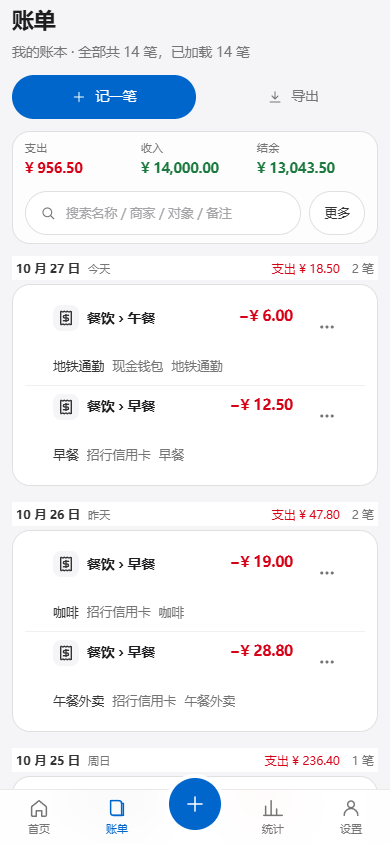
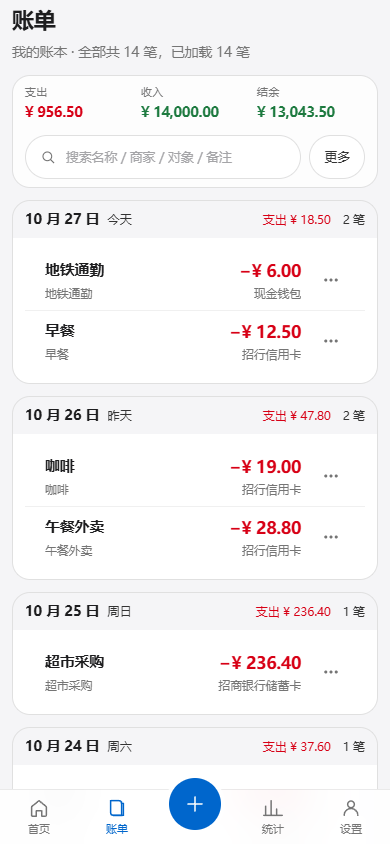
style(mobile): 账单页卡片重设计（日期通栏长条 + 两行信息层级 + 紧凑间距）
- 日期头改通栏长条：parchment 面 + 上/左/右 hairline，与白色条目卡形成面色切换；保留吸顶
- 单条两行：名称(回退二级分类)+金额 / 商家·标签+账户（账户在金额正下方）
  用 display:contents 拆格位，一套 DOM 三档断点；:has() 判名称回退
- 间距收紧：组距 24→12，行内边距 12→8，两行间距 2px
- 移除顶部「记一笔 / 导出」入口，页头不留空白占位
- 版本同步 1.1.7；SW v28

diff --git a/public/assets/mobile.css b/public/assets/mobile.css
@@ -341,37 +341,58 @@
 
   /* ---------- 账单列表：单列两行卡片，进一步收紧行高与组距（紧凑化） ----------
      桌面那套 `.tx-row` 在 ≤833 已是两行卡片（app.css），这里只收内边距与组距，
-     不改动列布局与语义色（红绿）。日期头 margin-bottom 收到 4（spacing.xs 下限），
-     组间距 24 → 16，行内边距 12 → 8 —— 整屏能多露出约 1.5 行。 */
+     不改动列布局与语义色（红绿）。组间距 24 → 12，行内边距 12 → 8 —— 整屏能多露出约 1.5 行。 */
   .tx-day + .tx-day {
-    margin-top: 16px;
+    margin-top: 12px;
   }
 
-  /* 日期头吸顶：专业记账 App（随手记 / YNAB）的标配 —— 长列表滚动时
-     当前看的是哪一天始终钉在顶部，当日收支小计不丢。
-     背景用页面底色（--c-canvas），行在下方滑过时干净遮住；顶部已无顶栏，
-     本头 sticky 在安全区之下（刘海机型不钻到状态栏底下）。纯 CSS、未动结构。 */
+  /* 日期头 = 通栏长条：与下方条目卡片拼成一张完整的分组卡。
+     层级靠**面色切换**承担（00-DESIGN：the color change itself is the divider）：
+     长条取页面底色 --c-parchment，条目卡取 --c-canvas —— 一灰一白，
+     接缝处不再叠描边；长条只有上/左/右三面的 hairline，作为分组卡的帽。
+     不再靠留白分层 —— 留白在手机上只会把列表拉长。
+     同时保持吸顶：长列表滚动时当前看的是哪一天始终钉在顶部，当日小计不丢；
+     顶部已无顶栏，本头 sticky 在安全区之下（刘海机型不钻到状态栏底下）。 */
   .tx-day__head {
     position: sticky;
     top: env(safe-area-inset-top, 0px);
     z-index: 5;
-    margin-bottom: 4px;
-    padding: 4px 4px 2px;
-    background: var(--c-canvas);
+    display: flex;
+    align-items: center;
+    justify-content: space-between;
+    gap: 8px;
+    margin-bottom: 0;
+    padding: 8px 12px;
+    background: var(--c-parchment);
+    border: 1px solid var(--c-hairline);
+    border-bottom: 0;
+    border-radius: var(--r-lg) var(--r-lg) 0 0;
+  }
+
+  /* 条目卡片接在长条下方：去掉上圆角与上边，接缝由长条的底边承担 */
+  .tx-day__body {
+    border-radius: 0 0 var(--r-lg) var(--r-lg);
+    border-top: 0;
   }
 
   .tx-row {
-    padding: 8px 16px;
-    gap: 8px 12px;
+    padding: 8px 12px;
   }
 
-  /* 日期头与当日小计在同一条基线上，紧凑但层次清楚 */
+  /* 日期头与当日小计在同一条基线上，紧凑但层次清楚：
+     日期 caption-strong（14 / 600），星期与小计 fine-print（12px）。
+     ⚠ 长条底色是 --c-parchment：12px 的次级字必须用 ink-muted-80，
+     ink-muted-48 在羊皮纸底只有 4.23:1（白底是 4.60:1），会掉到 AA 线下。 */
   .tx-day__date {
-    font-size: 12px;
+    font-size: 14px;
+    color: var(--c-ink);
   }
 
-  .tx-day__sum {
+  .tx-day__wd,
+  .tx-day__sum,
+  .tx-day__count {
     font-size: 12px;
+    color: var(--c-ink-muted-80);
   }
 
   /* 可点行的按压反馈：手机上「按下去有反应」比桌面更需要。

diff --git a/public/assets/app.css b/public/assets/app.css
@@ -6248,15 +6248,26 @@ a.acct-row:hover {
     height: 20px;
   }
 
-  /* 两行卡片式：分类 + 金额 在上，名称·账户·商家 在下 */
+  /* --------- 两行卡片式（手机）---------
+     第 1 行：账单名称（无名称时回退「二级支出类型」）+ 金额（右对齐、加大加粗）
+     第 2 行：商家 · 标签（左） ｜ 支付账户（右，落在金额正下方）
+     一套 DOM 服务三档断点：这里把 `.tx-row__subject` / `.tx-row__meta` 拆成
+     `display: contents`，让它们的子元素各自占格位 —— 不为手机写第二套模板
+     （两套模板必然会在改字段时漏改一边）。 */
   .tx-row {
-    grid-template-columns: auto minmax(0, 1fr) auto 44px;
+    grid-template-columns: auto minmax(0, 1fr) auto auto auto 44px;
     grid-template-areas:
-      'pick subject amt more'
-      'pick meta    meta meta';
-    align-items: start;
-    gap: 8px 12px;
-    padding: 12px 16px;
+      'pick main main   main   amt  more'
+      'pick merch tags badges acct more';
+    align-items: center;
+    column-gap: 8px;
+    row-gap: 2px;
+    padding: 8px 12px;
+  }
+
+  .tx-row__subject,
+  .tx-row__meta {
+    display: contents;
   }
 
   .tx-row__pick {
@@ -6270,39 +6281,68 @@ a.acct-row:hover {
     display: flex;
   }
 
-  .tx-row__subject {
-    grid-area: subject;
+  /* 名称优先：有名称就不再重复显示分类 —— 是回退关系，不是并列两列 */
+  .tx-row:has(.tx-row__name:not(:empty)) .tx-row__cat {
+    display: none;
+  }
+
+  .tx-row__name,
+  .tx-row__cat {
+    grid-area: main;
+    min-width: 0;
+    font-size: 15px;
+    font-weight: 600;
+    line-height: 1.35;
+    color: var(--c-ink);
+    overflow: hidden;
+    text-overflow: ellipsis;
+    white-space: nowrap;
   }
 
   .tx-row__amt {
     grid-area: amt;
+    justify-self: end;
+    font-size: 17px;
+    font-weight: 600;
+    line-height: 1.3;
   }
 
   .tx-row__more {
     grid-area: more;
   }
 
-  .tx-row__meta {
-    display: flex;
-    flex-wrap: wrap;
-    align-items: center;
-    gap: 4px 8px;
-    grid-area: meta;
-    min-width: 0;
-  }
-
-  /* 两行式把「商家/对象」重新放出来（第二行有三个位置，比桌面/平板宽裕） */
+  /* 第二行：商家（可截断）→ 标签 → 徽标；账户贴右，落在金额正下方 */
   .tx-row__extra {
-    display: inline;
+    display: block;
+    grid-area: merch;
+    font-size: 12px;
+    line-height: 1.3;
   }
 
-  .tx-row__name,
+  .tx-row__tags {
+    grid-area: tags;
+  }
+
+  .tx-row__badges {
+    grid-area: badges;
+  }
+
   .tx-row__acct {
-    max-width: 100%;
+    grid-area: acct;
+    justify-self: end;
+    font-size: 12px;
+    line-height: 1.3;
+  }
+
+  /* 分类图标与时间让位给「名称 + 金额」这条主线：手机上它们只是重复信息，
+     且会挤掉名称的可显示宽度。 */
+  .tx-row__icon,
+  .tx-row__time {
+    display: none;
   }
 
   .tx-row__menu {
-    right: 16px;
+    right: 12px;
   }
 
   .tx-sum__value {

diff --git a/public/assets/views/transactions.js b/public/assets/views/transactions.js
@@ -209,17 +209,11 @@ export async function renderTransactions(container, { go, query }) {
     ledger,
     inner: `
       <div class="page__hero">
-        <div class="row row--between row--wrap row--md">
-          <div class="stack stack--sm">
-            <h1>账单</h1>
-            <p class="tt-caption text-muted" data-role="hero-sub">
-              ${esc(ledger.name)} · 正在读取…
-            </p>
-          </div>
-          <div class="row row--md">
-            <a class="btn btn--sm" href="/transactions/new" data-link">${icon('plus', 16)}记一笔</a>
-            <button class="btn btn--quiet btn--sm" type="button" data-role="export">${icon('download', 16)}导出</button>
-          </div>
+        <div class="stack stack--sm">
+          <h1>账单</h1>
+          <p class="tt-caption text-muted" data-role="hero-sub">
+            ${esc(ledger.name)} · 正在读取…
+          </p>
         </div>
       </div>
 

diff --git a/public/sw.js b/public/sw.js
@@ -21,7 +21,7 @@
  * 静态资源走 SWR，不换版本号的话用户第一次刷新拿到的仍是旧 JS ——
  * 正好是要修的那份，会被当成「没修好」。
  */
-const VERSION = 'cc-ledger-v27';
+const VERSION = 'cc-ledger-v28';
 const SHELL = `${VERSION}-shell`;
 const STATIC = `${VERSION}-static`;
 const API = `${VERSION}-api`;

diff --git a/src/config/env.ts b/src/config/env.ts
@@ -45,7 +45,7 @@ const EnvSchema = z.object({
   ENABLE_SCHEDULER: boolEnv(true),
   BACKUP_ENABLED: boolEnv(true),
   BACKUP_RETENTION_DAYS: z.coerce.number().int().min(0).default(14),
-  APP_VERSION: z.string().min(1).default('1.1.6'),
+  APP_VERSION: z.string().min(1).default('1.1.7'),
 });
 
 export type Env = z.infer<typeof EnvSchema>;

diff --git a/DEPLOY-绿联NAS.md b/DEPLOY-绿联NAS.md
@@ -216,7 +216,7 @@ cat .env
 | 配置项 | 作用 | 能不能改 |
 |---|---|---|
 | `build: context: .` | 用当前目录的 `Dockerfile` 构建镜像 | 别改 |
-| `image: ${CC_IMAGE:-cc-ledger:1.1.6}` | 用哪个镜像：不设 `CC_IMAGE` 就用本地构建的这个名字；设成 `ghcr.io/shayi/cc-ledger:latest` 就是拉 GitHub 构建好的 | 可改（见 5.0） |
+| `image: ${CC_IMAGE:-cc-ledger:1.1.7}` | 用哪个镜像：不设 `CC_IMAGE` 就用本地构建的这个名字；设成 `ghcr.io/shayi/cc-ledger:latest` 就是拉 GitHub 构建好的 | 可改（见 5.0） |
 | `restart: unless-stopped` | **开机自启的核心**：容器退出就自动拉起；你手动停的则不再拉 | 见第五节 |
 | `ports: "3000:3000"` | **端口映射**，见第六节 | 端口冲突时只改左边 |
 | `JWT_SECRET` | 登录凭证密钥 | **必改**，其余可不动 |
@@ -270,7 +270,7 @@ echo 'CC_IMAGE=ghcr.io/shayi/cc-ledger:latest' >> .env
 ```
 
 > `CC_IMAGE` 不是应用的环境变量，只被 `docker-compose.yml` 读取，用来决定「用哪个镜像」。
-> 不写这一行 = 走本地构建（默认 `cc-ledger:1.1.6`）。
+> 不写这一行 = 走本地构建（默认 `cc-ledger:1.1.7`）。
 
 **第 2 步：登录 ghcr**（镜像设为 public 后可以跳过这步）
 
@@ -299,7 +299,7 @@ docker compose up -d
 |---|---|---|
 | `latest` | 每次推 `main` | 日常用这个 |
 | `sha-626e08c` | 每次构建 | 想钉死到某一次提交 |
-| `v1.1.6` | 打了 `v*` tag | 固定版本 |
+| `v1.1.7` | 打了 `v*` tag | 固定版本 |
 
 **想把镜像设为 public（这样任何机器不用登录就能拉）**：
 GitHub → 你的头像 → Your profile → **Packages** → `cc-ledger` → 右侧 **Package settings** →
@@ -717,7 +717,7 @@ curl http://127.0.0.1:3000/healthz
 {
   "status": "ok",
   "app": "CC记账",
-  "version": "1.1.6",
+  "version": "1.1.7",
   "uptimeSeconds": 3944,
   "database": { "connected": true, "migrationsApplied": 17, "walMode": true },
   "scheduler": { "running": true, "nextRun": "...", "tasks": [] }

diff --git a/CHANGELOG.md b/CHANGELOG.md
@@ -4,6 +4,30 @@
 打 `v*` tag 时 GitHub Actions 会产出同名的固定版本镜像（如 `v1.1.0`），
 推 `main` 时产出 `latest` 与 `sha-xxxxxxx`。
 
+## 1.1.7 — 2026-10-27
+
+### 改进（手机端账单页卡片重设计，仅动样式与布局）
+- **日期头改为通栏长条**：与下方条目卡片拼成一张完整的分组卡（长条是「帽」，
+  只有上/左/右三面 hairline，接缝不再叠描边）。层级靠**面色切换**承担
+  （长条 `--c-parchment` / 条目卡 `--c-canvas`），不再靠留白 ——
+  留白在手机上只会把列表拉长。保留吸顶。
+  ⚠ 长条底色是羊皮纸：12px 次级字必须用 `--c-ink-muted-80`，
+  `ink-muted-48` 在羊皮纸底只有 4.23:1（白底 4.60:1），会掉到 AA 线下。
+- **单条账单改为稳定的两行**：
+  · 第 1 行：账单名称（无名称时回退「二级支出类型」）+ 金额（右对齐、17px/600 突出）；
+  · 第 2 行：商家 · 标签（左）｜ 支付账户（右，落在金额正下方）；
+  · 名称 / 商家过长省略号截断，超长不溢出、不重叠。
+  实现上仍是**一套 DOM 服务三档断点**：`≤833px` 把 `.tx-row__subject` /
+  `.tx-row__meta` 拆成 `display: contents`，子元素各自占格位 —— 不为手机写第二套模板。
+  「名称优先、分类回退」用 `:has(.tx-row__name:not(:empty))` 判，纯 CSS 不碰数据。
+- **收紧间距**：组距 24→12，行内边距 12→8，行内两行间距收到 2px、列间距 8px；
+  仍保证行高充足（名称 1.35、金额/次行 1.3）与触控 ≥44px。
+- **移除顶部「记一笔 / 导出」入口**，页头只留标题与副标题，不留空白占位
+  （导出逻辑 `exportCsv()` 保留但当前无触发入口）。
+
+### 说明
+- 未改动数据来源与接口调用、筛选排序与分组逻辑、交互行为、金额计算与格式化规则。
+
 ## 1.1.6 — 2026-10-27
 
 ### 改进（手机端：删除顶部固定条 app-bar）
